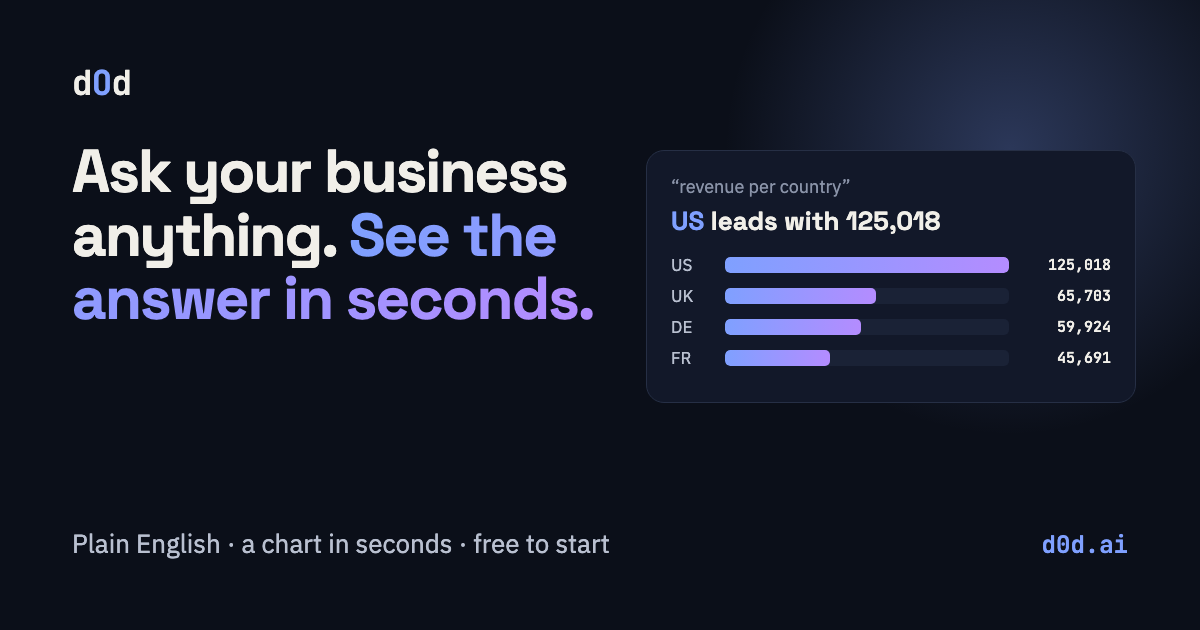
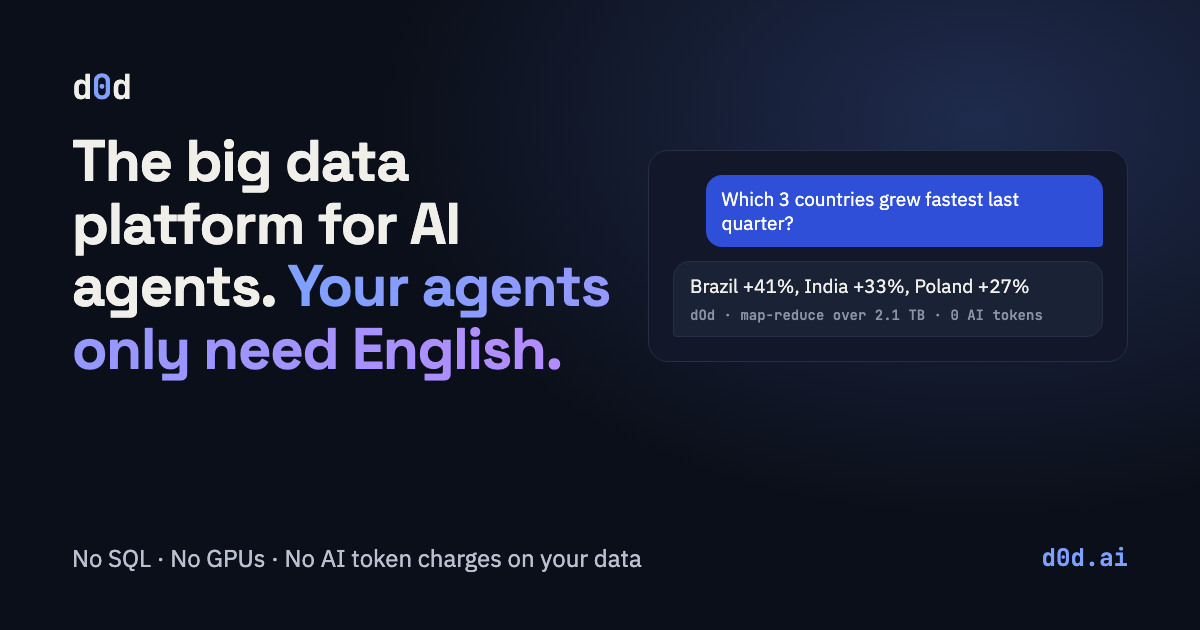
Campaign-ready: engine diagram, analytics on every page, ad tags to sign-up
- Under the hood: agent -> English over MCP -> plan -> distributed engine -> data
- analytics.js on all pages: GA, utm/gclid carried to workspace links, click events
- New og.png matching the headline (cache-busted), 404 page, self-hosted icons
- Privacy policy discloses Google Analytics

diff --git a/index.html b/index.html
@@ -11,11 +11,11 @@
 <meta property="og:url" content="https://d0d.ai/">
 <meta property="og:title" content="dOd — The big data platform for AI agents">
 <meta property="og:description" content="Your agents speak English. dOd turns it into exact answers over terabytes of data. No SQL, no translation, no guessing.">
-<meta property="og:image" content="https://d0d.ai/og.png">
+<meta property="og:image" content="https://d0d.ai/og.png?v=2">
 <meta property="og:image:width" content="1200">
 <meta property="og:image:height" content="630">
 <meta name="twitter:card" content="summary_large_image">
-<meta name="twitter:image" content="https://d0d.ai/og.png">
+<meta name="twitter:image" content="https://d0d.ai/og.png?v=2">
 <meta name="color-scheme" content="dark">
 <meta name="twitter:title" content="dOd — The big data platform for AI agents">
 <meta name="twitter:description" content="Your agents speak English. dOd turns it into exact answers over terabytes of data. No SQL, no GPUs, no AI token charges on your data.">
@@ -54,7 +54,7 @@
    "publisher": {
     "@id": "https://d0d.ai/#org"
    },
-   "image": "https://d0d.ai/og.png",
+   "image": "https://d0d.ai/og.png?v=2",
    "offers": [
     {
      "@type": "Offer",
@@ -315,20 +315,42 @@
   footer a:hover { color: var(--fg); }
   footer .right { margin-left: auto; }
   @media (prefers-reduced-motion: reduce) { .eyebrow::before, .demo-top .live::before, .answer .wait::before { animation: none; } .bars .br { transition: none; } }
+  /* the engine diagram: agent → plan → workers → data, answer back */
+  .flow { display: grid; grid-template-columns: minmax(0, 1fr) auto minmax(0, 1fr) auto minmax(0, 1fr) auto minmax(0, 1fr); align-items: stretch; gap: 0 10px; }
+  .node { background: var(--panel); border: 1px solid var(--line); border-radius: 16px; padding: 18px; display: flex; flex-direction: column; gap: 12px; }
+  .node.hl { border-color: var(--accent); box-shadow: 0 0 0 1px var(--accent) inset; }
+  .node .step { font: 500 12px "JetBrains Mono", monospace; letter-spacing: .1em; text-transform: uppercase; color: var(--accent); }
+  .node h3 { font: 700 19px "Space Grotesk", system-ui, sans-serif; margin: 0; }
+  .node p { color: var(--soft); font-size: 14px; margin: 0; }
+  .node .say { background: #2F4FD8; color: #fff; border-radius: 12px 12px 4px 12px; padding: 9px 12px; font-size: 14px; }
+  .node .who { display: flex; gap: 8px; }
+  .node .who img { width: 20px; height: 20px; }
+  .node pre { margin: 0; background: var(--bg); border: 1px solid var(--line); border-radius: 10px; padding: 10px 12px; font: 500 12px/1.7 "JetBrains Mono", monospace; color: var(--soft); white-space: pre-wrap; }
+  .node pre b { color: var(--accent-2); font-weight: 600; }
+  .workers { display: grid; grid-template-columns: repeat(6, 1fr); gap: 5px; }
+  .workers i { aspect-ratio: 1; border-radius: 4px; background: var(--panel-2); border: 1px solid var(--line); animation: work 2.4s ease-in-out infinite; }
+  .workers i:nth-child(3n+1) { animation-delay: .4s; } .workers i:nth-child(4n+2) { animation-delay: .9s; } .workers i:nth-child(5n+3) { animation-delay: 1.5s; }
+  @keyframes work { 0%, 100% { background: var(--panel-2); } 45% { background: var(--accent); border-color: var(--accent); } }
+  .stores { display: grid; gap: 6px; }
+  .stores span { display: flex; align-items: center; gap: 8px; background: var(--bg); border: 1px solid var(--line); border-radius: 10px; padding: 7px 10px; font-size: 13px; color: var(--soft); }
+  .stores img { width: 16px; height: 16px; }
+  .stores small { margin-left: auto; color: var(--muted); font: 500 12px "JetBrains Mono", monospace; }
+  .arrow { display: flex; flex-direction: column; align-items: center; justify-content: center; gap: 4px; color: var(--accent); font-size: 22px; }
+  .arrow small { color: var(--muted); font: 500 11px "JetBrains Mono", monospace; text-align: center; max-width: 9ch; line-height: 1.3; }
+  .back { margin-top: 14px; display: flex; flex-wrap: wrap; align-items: center; gap: 8px 16px; background: var(--panel); border: 1px dashed var(--good); border-radius: 14px; padding: 14px 18px; color: var(--fg); }
+  .back b { color: var(--good); font: 600 13px "JetBrains Mono", monospace; }
+  .back small { color: var(--muted); font: 500 12px "JetBrains Mono", monospace; margin-left: auto; }
+  @media (max-width: 980px) {
+    .flow { grid-template-columns: minmax(0, 1fr); gap: 6px; }
+    .arrow { flex-direction: row; font-size: 0; padding: 4px 0; }
+    .arrow::before { content: "↓"; font-size: 22px; }
+    .arrow small { max-width: none; }
+    .back small { margin-left: 0; }
+    .workers { grid-template-columns: repeat(9, 1fr); }
+  }
+  @media (prefers-reduced-motion: reduce) { .workers i { animation: none; } }
 </style>
-<script type="module">
-  import { initializeApp } from "https://www.gstatic.com/firebasejs/11.0.2/firebase-app.js";
-  import { getAnalytics } from "https://www.gstatic.com/firebasejs/11.0.2/firebase-analytics.js";
-  getAnalytics(initializeApp({
-    apiKey: "AIzaSyBFtR8VVwOWFk2R0olHZd5aoNK0hfdFbaw",
-    authDomain: "d0d-gcp-workspace.firebaseapp.com",
-    projectId: "d0d-gcp-workspace",
-    storageBucket: "d0d-gcp-workspace.firebasestorage.app",
-    messagingSenderId: "692100161813",
-    appId: "1:692100161813:web:0f77756ab7d8b34fe4491c",
-    measurementId: "G-N7ZT2ZDNQ1"
-  }));
-</script>
+<script type="module" src="/analytics.js"></script>
 </head>
 <body>
 <header>
@@ -380,17 +402,17 @@
   <div class="logos">
     <div class="wrap">
       <span class="label">Data sources</span>
-      <span class="pill"><img src="https://cdn.simpleicons.org/googlesheets/B9C0D0" alt="">Google Sheets</span><span class="pill"><img src="https://cdn.simpleicons.org/postgresql/B9C0D0" alt="">PostgreSQL</span><span class="pill"><img src="https://cdn.simpleicons.org/googlebigquery/B9C0D0" alt="">BigQuery</span>
-      <span class="pill"><svg viewBox="0 0 24 24" fill="none" stroke="currentColor" stroke-width="2" stroke-linecap="round" aria-hidden="true"><ellipse cx="12" cy="5" rx="8" ry="3"/><path d="M4 5l2 14c.3 1.7 2.9 3 6 3s5.7-1.3 6-3l2-14"/></svg>Amazon S3</span><span class="pill"><img src="https://cdn.simpleicons.org/googlecloudstorage/B9C0D0" alt="">Google Cloud Storage</span><span class="pill"><img src="https://cdn.simpleicons.org/apache/B9C0D0" alt="">Apache Iceberg</span>
-      <span class="pill"><img src="https://cdn.simpleicons.org/apacheparquet/B9C0D0" alt="">CSV &amp; Parquet uploads</span>
-      <span class="pill"><img src="https://cdn.simpleicons.org/snowflake/B9C0D0" alt="">Snowflake</span><span class="pill"><img src="https://cdn.simpleicons.org/databricks/B9C0D0" alt="">Databricks</span><span class="pill"><svg viewBox="0 0 24 24" fill="none" stroke="currentColor" stroke-width="2" stroke-linecap="round" aria-hidden="true"><ellipse cx="12" cy="5" rx="8" ry="3"/><path d="M4 5l2 14c.3 1.7 2.9 3 6 3s5.7-1.3 6-3l2-14"/></svg>Amazon Redshift</span><span class="pill"><img src="https://cdn.simpleicons.org/clickhouse/B9C0D0" alt="">ClickHouse</span>
-      <span class="pill"><img src="https://cdn.simpleicons.org/mysql/B9C0D0" alt="">MySQL</span><span class="pill"><img src="https://cdn.simpleicons.org/mongodb/B9C0D0" alt="">MongoDB</span><span class="pill"><img src="https://cdn.simpleicons.org/elasticsearch/B9C0D0" alt="">Elasticsearch</span><span class="pill"><img src="https://cdn.simpleicons.org/duckdb/B9C0D0" alt="">DuckDB</span>
-      <span class="pill"><img src="https://cdn.simpleicons.org/apachekafka/B9C0D0" alt="">Apache Kafka</span><span class="pill"><img src="https://cdn.simpleicons.org/apachespark/B9C0D0" alt="">Apache Spark</span><span class="pill"><img src="https://cdn.simpleicons.org/trino/B9C0D0" alt="">Trino</span><span class="pill"><svg viewBox="0 0 24 24" fill="none" stroke="currentColor" stroke-width="2" stroke-linecap="round" aria-hidden="true"><ellipse cx="12" cy="5" rx="8" ry="3"/><path d="M4 5l2 14c.3 1.7 2.9 3 6 3s5.7-1.3 6-3l2-14"/></svg>Delta Lake</span><span class="pill"><svg viewBox="0 0 24 24" fill="none" stroke="currentColor" stroke-width="2" stroke-linecap="round" aria-hidden="true"><ellipse cx="12" cy="5" rx="8" ry="3"/><path d="M4 5l2 14c.3 1.7 2.9 3 6 3s5.7-1.3 6-3l2-14"/></svg>Azure Data Lake</span>
+      <span class="pill"><img src="/icons/googlesheets.svg" alt="">Google Sheets</span><span class="pill"><img src="/icons/postgresql.svg" alt="">PostgreSQL</span><span class="pill"><img src="/icons/googlebigquery.svg" alt="">BigQuery</span>
+      <span class="pill"><svg viewBox="0 0 24 24" fill="none" stroke="currentColor" stroke-width="2" stroke-linecap="round" aria-hidden="true"><ellipse cx="12" cy="5" rx="8" ry="3"/><path d="M4 5l2 14c.3 1.7 2.9 3 6 3s5.7-1.3 6-3l2-14"/></svg>Amazon S3</span><span class="pill"><img src="/icons/googlecloudstorage.svg" alt="">Google Cloud Storage</span><span class="pill"><img src="/icons/apache.svg" alt="">Apache Iceberg</span>
+      <span class="pill"><img src="/icons/apacheparquet.svg" alt="">CSV &amp; Parquet uploads</span>
+      <span class="pill"><img src="/icons/snowflake.svg" alt="">Snowflake</span><span class="pill"><img src="/icons/databricks.svg" alt="">Databricks</span><span class="pill"><svg viewBox="0 0 24 24" fill="none" stroke="currentColor" stroke-width="2" stroke-linecap="round" aria-hidden="true"><ellipse cx="12" cy="5" rx="8" ry="3"/><path d="M4 5l2 14c.3 1.7 2.9 3 6 3s5.7-1.3 6-3l2-14"/></svg>Amazon Redshift</span><span class="pill"><img src="/icons/clickhouse.svg" alt="">ClickHouse</span>
+      <span class="pill"><img src="/icons/mysql.svg" alt="">MySQL</span><span class="pill"><img src="/icons/mongodb.svg" alt="">MongoDB</span><span class="pill"><img src="/icons/elasticsearch.svg" alt="">Elasticsearch</span><span class="pill"><img src="/icons/duckdb.svg" alt="">DuckDB</span>
+      <span class="pill"><img src="/icons/apachekafka.svg" alt="">Apache Kafka</span><span class="pill"><img src="/icons/apachespark.svg" alt="">Apache Spark</span><span class="pill"><img src="/icons/trino.svg" alt="">Trino</span><span class="pill"><svg viewBox="0 0 24 24" fill="none" stroke="currentColor" stroke-width="2" stroke-linecap="round" aria-hidden="true"><ellipse cx="12" cy="5" rx="8" ry="3"/><path d="M4 5l2 14c.3 1.7 2.9 3 6 3s5.7-1.3 6-3l2-14"/></svg>Delta Lake</span><span class="pill"><svg viewBox="0 0 24 24" fill="none" stroke="currentColor" stroke-width="2" stroke-linecap="round" aria-hidden="true"><ellipse cx="12" cy="5" rx="8" ry="3"/><path d="M4 5l2 14c.3 1.7 2.9 3 6 3s5.7-1.3 6-3l2-14"/></svg>Azure Data Lake</span>
       <span class="pill more">+ many more</span>
     </div>
     <div class="wrap" style="margin-top:14px">
       <span class="label">Agents</span>
-      <span class="pill hl"><svg viewBox="0 0 24 24" fill="none" stroke="currentColor" stroke-width="2" stroke-linejoin="round" aria-hidden="true"><path d="M4 5h16v11H9l-5 4z"/></svg>ChatGPT</span><span class="pill hl"><img src="https://cdn.simpleicons.org/claude/B9C0D0" alt="">Claude</span><span class="pill hl"><img src="https://cdn.simpleicons.org/cursor/B9C0D0" alt="">Cursor</span><span class="pill hl"><img src="https://cdn.simpleicons.org/githubcopilot/B9C0D0" alt="">GitHub Copilot</span><span class="pill hl"><img src="https://cdn.simpleicons.org/windsurf/B9C0D0" alt="">Windsurf</span><span class="pill hl"><img src="https://cdn.simpleicons.org/googlegemini/B9C0D0" alt="">Gemini</span><span class="pill hl"><img src="https://cdn.simpleicons.org/n8n/B9C0D0" alt="">n8n</span><span class="pill hl"><img src="https://cdn.simpleicons.org/langchain/B9C0D0" alt="">LangChain</span>
+      <span class="pill hl"><svg viewBox="0 0 24 24" fill="none" stroke="currentColor" stroke-width="2" stroke-linejoin="round" aria-hidden="true"><path d="M4 5h16v11H9l-5 4z"/></svg>ChatGPT</span><span class="pill hl"><img src="/icons/claude.svg" alt="">Claude</span><span class="pill hl"><img src="/icons/cursor.svg" alt="">Cursor</span><span class="pill hl"><img src="/icons/githubcopilot.svg" alt="">GitHub Copilot</span><span class="pill hl"><img src="/icons/windsurf.svg" alt="">Windsurf</span><span class="pill hl"><img src="/icons/googlegemini.svg" alt="">Gemini</span><span class="pill hl"><img src="/icons/n8n.svg" alt="">n8n</span><span class="pill hl"><img src="/icons/langchain.svg" alt="">LangChain</span>
       <span class="pill more">+ any MCP client</span>
     </div>
   </div>
@@ -424,6 +446,49 @@
         <div class="bubble you">Break Brazil down by device.</div>
         <div class="bubble ai">Mobile drove 78% of Brazil's growth; desktop was flat.<small>answered by dOd · map-reduce over 2.1 TB</small></div>
       </div>
+    </div>
+  </section>
+
+  <section id="engine">
+    <div class="wrap">
+      <div class="kicker">Under the hood</div>
+      <h2>English in. Bytes crunched. One exact answer out.</h2>
+      <p class="sub">dOd isn't a chatbot reading your tables, and it isn't text-to-SQL. It compiles the question into a plan, then its own distributed engine reads the raw data where it lives and computes the answer.</p>
+      <div class="flow">
+        <div class="node">
+          <div class="step">01 · Your agent</div>
+          <div class="who"><img src="/icons/claude.svg" alt=""><img src="/icons/cursor.svg" alt=""><img src="/icons/githubcopilot.svg" alt=""><img src="/icons/googlegemini.svg" alt=""></div>
+          <div class="say">Across last quarter's events, which 3 countries grew fastest?</div>
+          <p>Claude, ChatGPT, Cursor or your own agent asks in plain English.</p>
+        </div>
+        <div class="arrow" aria-hidden="true"><small>English, over MCP</small>→</div>
+        <div class="node">
+          <div class="step">02 · dOd plans it</div>
+          <pre><b>read</b>  events/*.parquet
+<b>keep</b>  last 2 quarters
+<b>group</b> country
+<b>count</b> per quarter
+<b>rank</b>  growth, top 3</pre>
+          <p>The embedded model builder compiles the question into an exact map-reduce plan. No SQL, no guessed joins.</p>
+        </div>
+        <div class="arrow" aria-hidden="true"><small>plan to every worker</small>→</div>
+        <div class="node hl">
+          <div class="step">03 · Distributed engine</div>
+          <div class="workers" aria-hidden="true"><i></i><i></i><i></i><i></i><i></i><i></i><i></i><i></i><i></i><i></i><i></i><i></i><i></i><i></i><i></i><i></i><i></i><i></i></div>
+          <p>Built from scratch: the plan is split across many CPUs, each reading its slice of the raw bytes and computing its part. The parts reduce to one exact answer.</p>
+        </div>
+        <div class="arrow" aria-hidden="true"><small>reads directly</small>→</div>
+        <div class="node">
+          <div class="step">04 · Your data, in place</div>
+          <div class="stores">
+            <span><svg width="16" height="16" viewBox="0 0 24 24" fill="none" stroke="currentColor" stroke-width="2" stroke-linecap="round" aria-hidden="true"><ellipse cx="12" cy="5" rx="8" ry="3"/><path d="M4 5l2 14c.3 1.7 2.9 3 6 3s5.7-1.3 6-3l2-14"/></svg>Amazon S3<small>2.1 TB</small></span>
+            <span><img src="/icons/googlebigquery.svg" alt="">BigQuery</span>
+            <span><img src="/icons/postgresql.svg" alt="">PostgreSQL</span>
+          </div>
+          <p>Nothing is copied or exported, and no rows are ever sent to a language model.</p>
+        </div>
+      </div>
+      <div class="back"><b>← only the answer goes back</b><span>Brazil +41%, India +33%, Poland +27%</span><small>3.8B events · 2.1 TB read · 0 rows to the AI · 0 tokens on the data</small></div>
     </div>
   </section>
 

diff --git a/privacy.html b/privacy.html
@@ -12,6 +12,7 @@
 <link rel="apple-touch-icon" href="/apple-touch-icon.png">
 <link rel="stylesheet" href="https://fonts.googleapis.com/css2?family=Space+Grotesk:wght@600;700&family=IBM+Plex+Sans:wght@400;500;600&family=JetBrains+Mono:wght@500;600&display=swap">
 <link rel="stylesheet" href="/page.css">
+<script type="module" src="/analytics.js"></script>
 </head>
 <body>
 <header>
@@ -24,7 +25,7 @@
   <div class="wrap doc">
     <div class="kicker">Legal</div>
     <h1>Privacy Policy</h1>
-    <p class="updated">Last updated October 4, 2026</p>
+    <p class="updated">Last updated October 7, 2026</p>
 
     <p>This policy explains what personal information d0d.ai ("dOd", "we", "us") collects when you use d0d.ai and workspace.d0d.ai (the "Service"), how we use it, and the choices you have.</p>
 
@@ -48,7 +49,7 @@
     <p>We share personal information only with service providers who help us run the Service, under agreements that limit their use of it: cloud hosting, language model providers (as described above), Paddle for payments, and email delivery. We may also disclose information when the law requires it, or as part of a merger or sale of our business, in which case this policy continues to apply.</p>
 
     <h2>Cookies</h2>
-    <p>The Service uses cookies needed to keep you signed in. We don't use advertising cookies. The website loads fonts from Google Fonts, which receives your IP address when it serves them.</p>
+    <p>The Service uses cookies needed to keep you signed in. This website uses Google Analytics, which sets cookies to count visits and see which pages and links are used, including which campaign or ad brought you here; Google receives your IP address and browser details to do this. We don't use advertising cookies. The website also loads fonts from Google Fonts, which receives your IP address when it serves them. You can block or delete cookies in your browser settings.</p>
 
     <h2>How long we keep it</h2>
     <p>We keep your information while your account is active. When you delete your workspace or account, we delete your data from the Service within 30 days, except records we must keep by law, such as billing records.</p>

diff --git a/analytics.js b/analytics.js
@@ -1,0 +1,29 @@
+// Google Analytics (through Firebase) on every page, plus what a campaign needs:
+// ad tags carried over to the workspace so sign-ups keep their source, and a
+// click event on every link to the workspace or to us.
+import { initializeApp } from "https://www.gstatic.com/firebasejs/11.0.2/firebase-app.js";
+import { getAnalytics, logEvent } from "https://www.gstatic.com/firebasejs/11.0.2/firebase-analytics.js";
+
+const analytics = getAnalytics(initializeApp({
+  apiKey: "AIzaSyBFtR8VVwOWFk2R0olHZd5aoNK0hfdFbaw",
+  authDomain: "d0d-gcp-workspace.firebaseapp.com",
+  projectId: "d0d-gcp-workspace",
+  storageBucket: "d0d-gcp-workspace.firebasestorage.app",
+  messagingSenderId: "692100161813",
+  appId: "1:692100161813:web:0f77756ab7d8b34fe4491c",
+  measurementId: "G-N7ZT2ZDNQ1"
+}));
+
+const tags = [...new URLSearchParams(location.search)].filter(([k]) => /^(utm_\w+|gclid|fbclid|li_fat_id|msclkid)$/.test(k));
+for (const a of document.querySelectorAll('a[href^="https://workspace.d0d.ai"]')) {
+  const url = new URL(a.href);
+  for (const [k, v] of tags) url.searchParams.set(k, v);
+  a.href = url;
+}
+
+document.addEventListener("click", e => {
+  const a = e.target.closest("a");
+  if (!a) return;
+  const event = a.href.startsWith("https://workspace.d0d.ai") ? "workspace_click" : a.href.startsWith("mailto:") ? "contact_click" : null;
+  if (event) logEvent(analytics, event, {link_text: a.textContent.trim().slice(0, 60), page: location.pathname});
+});

diff --git a/404.html b/404.html
@@ -1,0 +1,31 @@
+<!doctype html>
+<html lang="en">
+<head>
+<meta charset="utf-8">
+<meta name="viewport" content="width=device-width, initial-scale=1">
+<title>Page not found — dOd</title>
+<meta name="robots" content="noindex">
+<meta name="color-scheme" content="dark">
+<link rel="icon" href="/favicon.ico" sizes="48x48">
+<link rel="icon" type="image/svg+xml" href="/favicon.svg">
+<link rel="stylesheet" href="https://fonts.googleapis.com/css2?family=Space+Grotesk:wght@600;700&family=IBM+Plex+Sans:wght@400;500;600&family=JetBrains+Mono:wght@500;600&display=swap">
+<link rel="stylesheet" href="/page.css">
+<script type="module" src="/analytics.js"></script>
+</head>
+<body>
+<header>
+  <div class="wrap">
+    <a class="logo" href="/" aria-label="dOd home">d<b>O</b>d</a>
+    <nav><a href="/pricing">Pricing</a><a href="https://workspace.d0d.ai/">Sign in</a></nav>
+  </div>
+</header>
+<main>
+  <div class="wrap">
+    <div class="kicker">404</div>
+    <h1>That page isn't here.</h1>
+    <p class="sub">The link may be old or mistyped. The answers are on the home page.</p>
+    <a class="btn" href="/">Go to d0d.ai</a>
+  </div>
+</main>
+</body>
+</html>

diff --git a/pricing.html b/pricing.html
@@ -12,6 +12,7 @@
 <link rel="apple-touch-icon" href="/apple-touch-icon.png">
 <link rel="stylesheet" href="https://fonts.googleapis.com/css2?family=Space+Grotesk:wght@600;700&family=IBM+Plex+Sans:wght@400;500;600&family=JetBrains+Mono:wght@500;600&display=swap">
 <link rel="stylesheet" href="/page.css">
+<script type="module" src="/analytics.js"></script>
 </head>
 <body>
 <header>

diff --git a/refunds.html b/refunds.html
@@ -12,6 +12,7 @@
 <link rel="apple-touch-icon" href="/apple-touch-icon.png">
 <link rel="stylesheet" href="https://fonts.googleapis.com/css2?family=Space+Grotesk:wght@600;700&family=IBM+Plex+Sans:wght@400;500;600&family=JetBrains+Mono:wght@500;600&display=swap">
 <link rel="stylesheet" href="/page.css">
+<script type="module" src="/analytics.js"></script>
 </head>
 <body>
 <header>

diff --git a/terms.html b/terms.html
@@ -12,6 +12,7 @@
 <link rel="apple-touch-icon" href="/apple-touch-icon.png">
 <link rel="stylesheet" href="https://fonts.googleapis.com/css2?family=Space+Grotesk:wght@600;700&family=IBM+Plex+Sans:wght@400;500;600&family=JetBrains+Mono:wght@500;600&display=swap">
 <link rel="stylesheet" href="/page.css">
+<script type="module" src="/analytics.js"></script>
 </head>
 <body>
 <header>

diff --git a/README.md b/README.md
@@ -5,7 +5,10 @@ The landing page for dOd, served by GitHub Pages at https://d0d.ai.
 One static file, `index.html`, no build step, plus `og.png`, the image link
 previews show, the icons, and what search engines and AI search read:
 `robots.txt`, `sitemap.xml` (update its `lastmod` when the page changes) and
-`llms.txt`. The page's structured data (JSON-LD in its head) repeats the FAQ
+`llms.txt`. `analytics.js` loads Google Analytics on every page, carries ad tags
+(`utm_*`, `gclid`, ...) onto workspace links, and logs clicks to the workspace
+and to email. Logo icons are self-hosted in `icons/`; `404.html` is GitHub Pages'
+not-found page. The page's structured data (JSON-LD in its head) repeats the FAQ
 and pricing: change them together. The hero's demo replays answers recorded from dOd's
 public demo workspace (`https://workspace.d0d.ai/try`) in `demo.json`; it makes
 no live calls. Re-record it when the engine's answers change, and keep the chip
